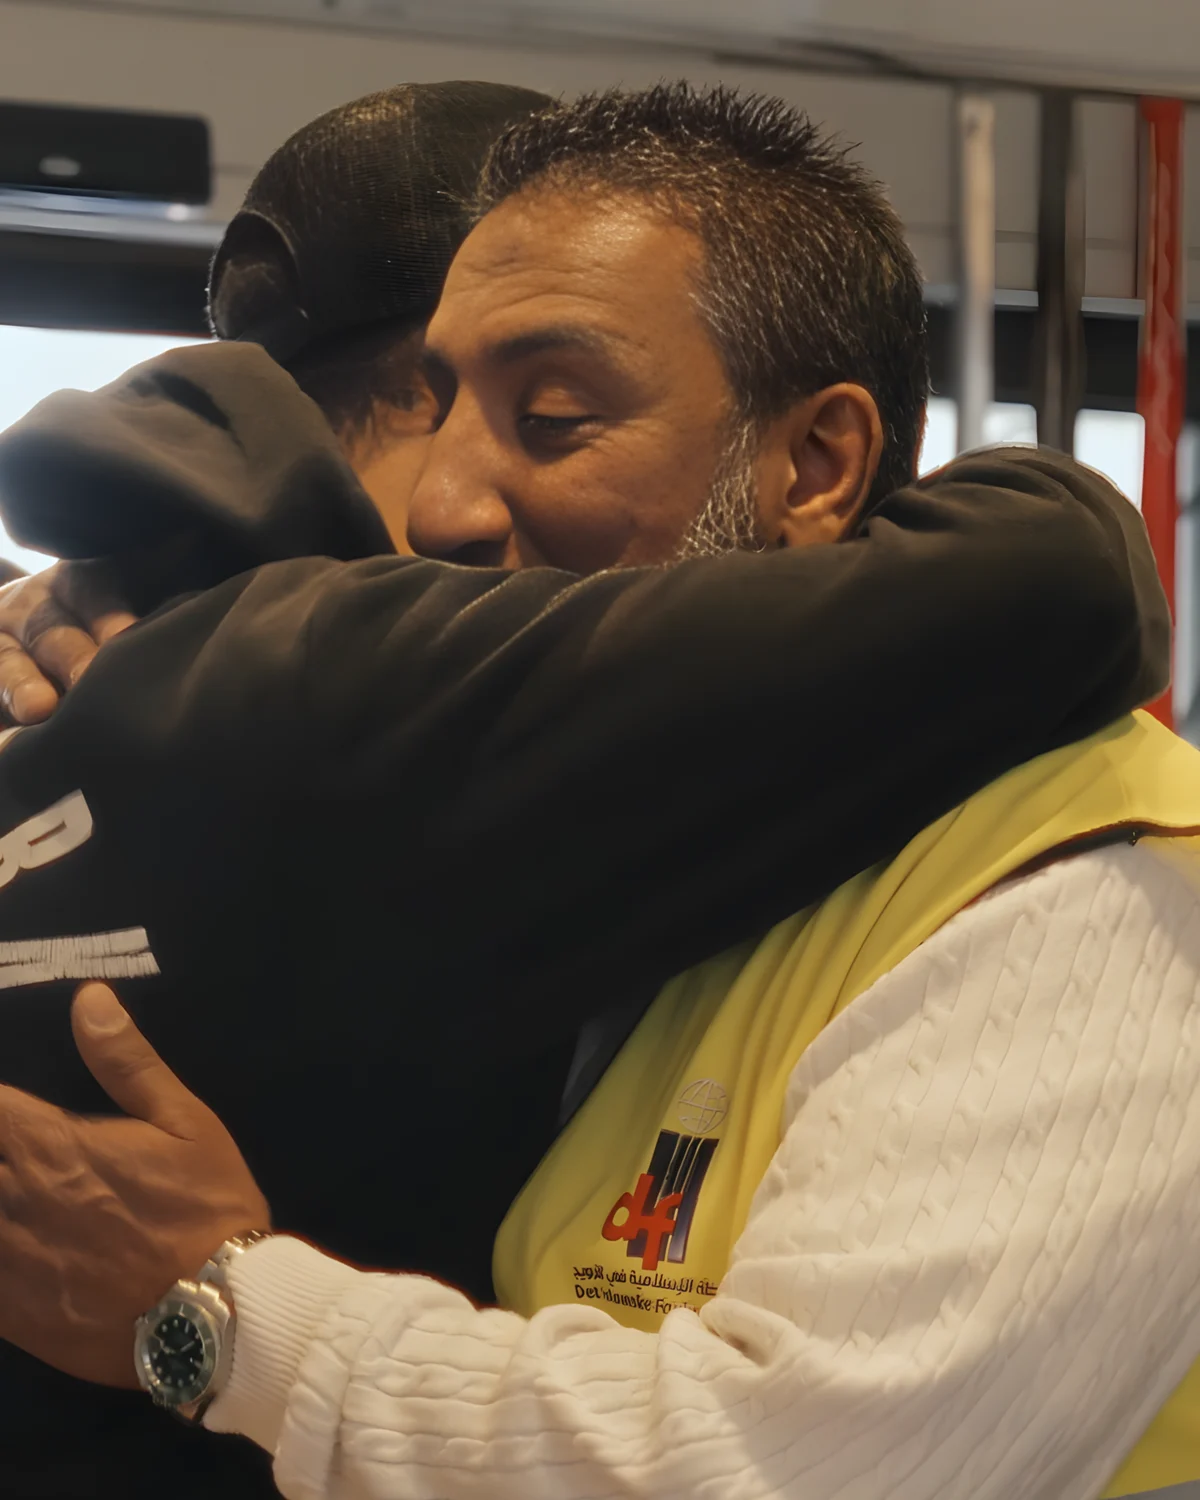
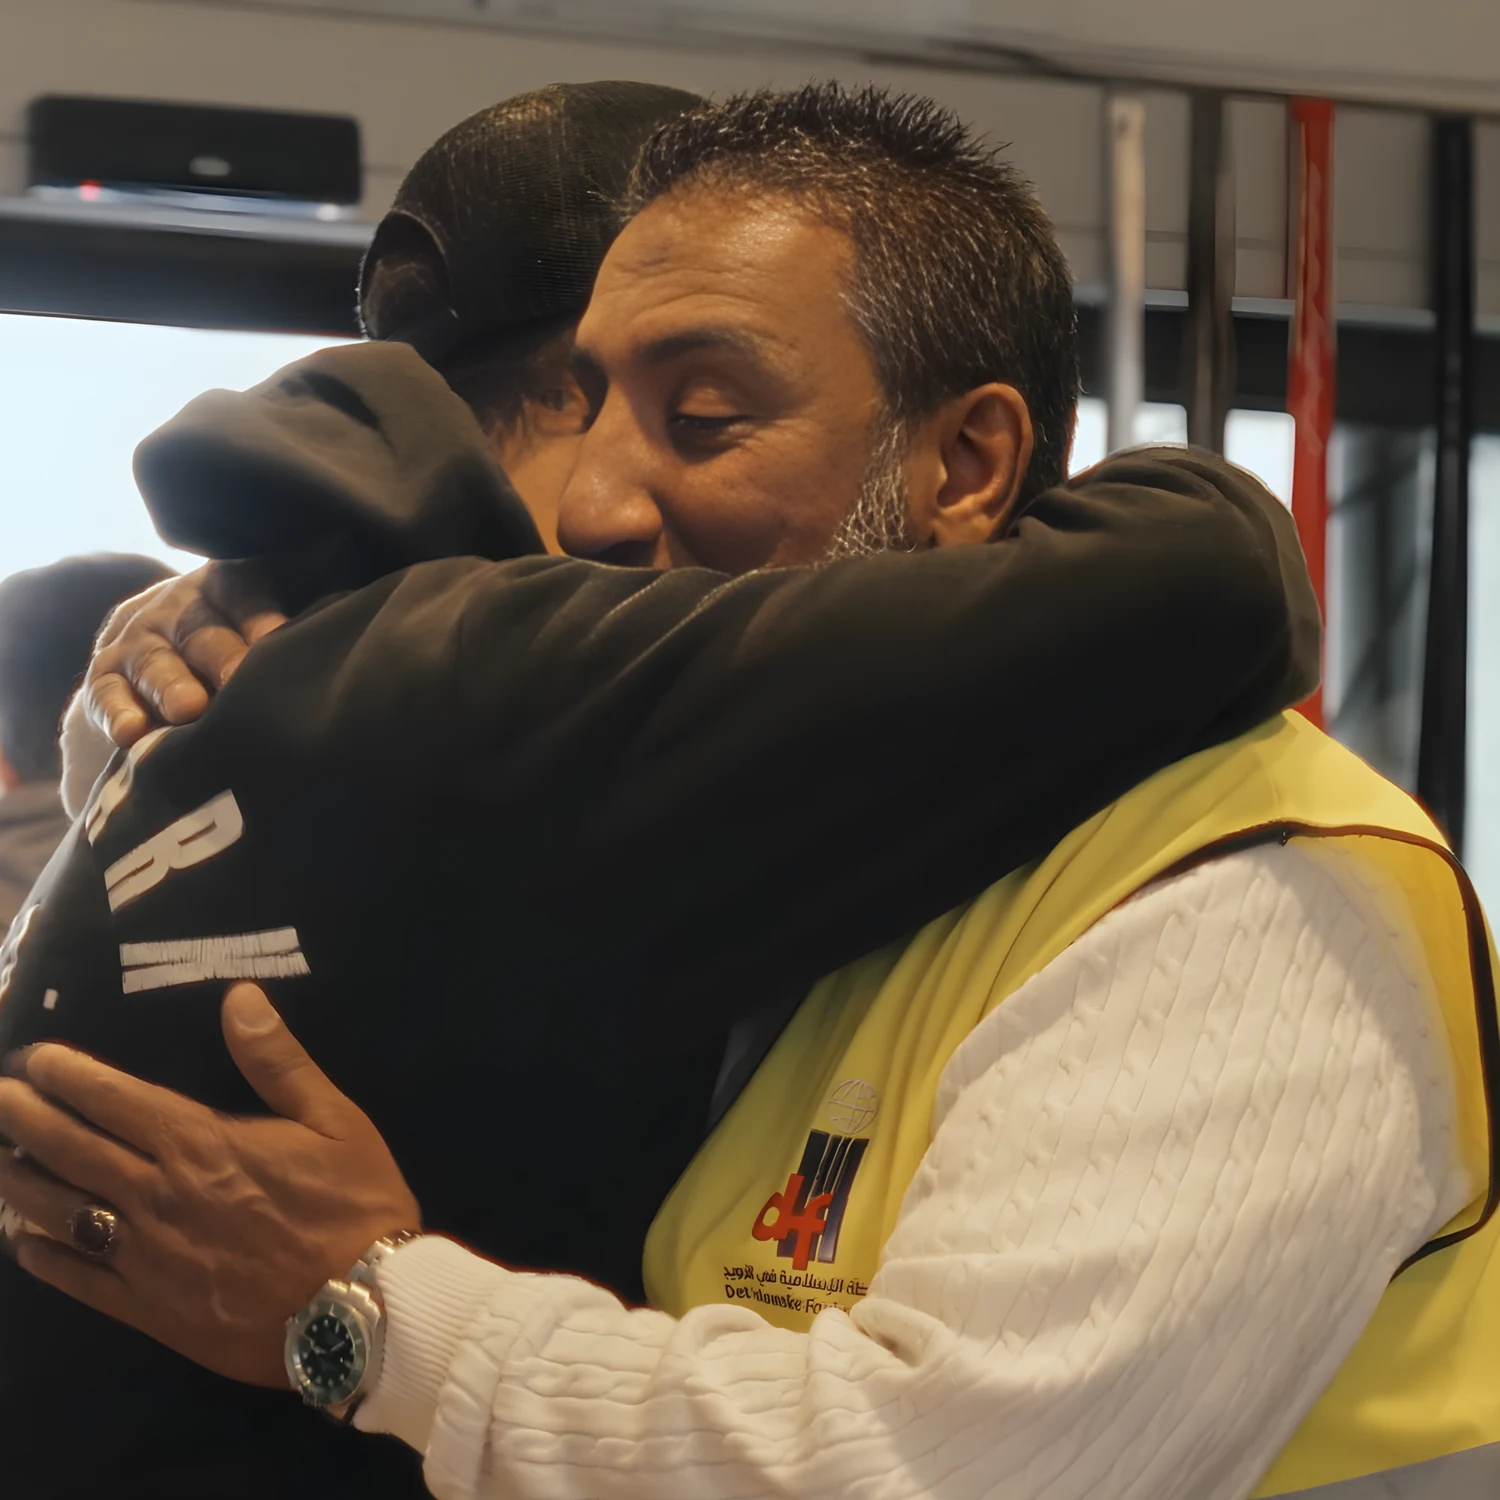
Members photo: square, so the phone frame stops cropping it to a sleeve
It shipped at 1200x1500 because the frames that wanted it were 4:5. This
chapter's frame is 4:5 only from md — on a phone it is 16/11, and a 0.8
source in a 1.45 box loses 45% of its height. The top of the head went and
what was left read as a black sleeve, which is the zoomed-in look.

Recut 1:1 from the client's own 5313x3125 original, around the same centre
his window was chosen at: the one ratio neither frame has to cut hard.
Both faces, the embrace and the Det Islamske Forbundet vest are back on a
phone. Desktop and /utmelding are both 4:5 and lose 20% of the width
instead, inside the margin his window already allowed for.

His subject choice is untouched; only the geometry changed.

diff --git a/components/impact-story.tsx b/components/impact-story.tsx
@@ -51,10 +51,18 @@ const CHAPTERS: {
   },
   {
     key: 'family',
-    // Client, Bildeplassering (2026-09-19) — his "Medlemskap" frame. Cut from
-    // a 5313x3125 at x=1450: that is the only window where the face, the
-    // embrace and the Det Islamske Forbundet vest all survive a 4:5. Further
-    // left loses the vest, further right cuts the arm.
+    // Client, Bildeplassering (2026-09-19) — his "Medlemskap" frame, cut from
+    // a 5313x3125 around x=2700: the only window where the face, the embrace
+    // and the Det Islamske Forbundet vest all survive. Further left loses the
+    // vest, further right cuts the arm.
+    //
+    // SQUARE, NOT 4:5 (2026-09-29). It shipped as 1200x1500 because the frames
+    // that wanted it were 4:5. This chapter's frame is 4:5 only from md — on a
+    // phone it is 16/11, and a 0.8 source in a 1.45 box loses 45% of its
+    // height: the top of the head went, and what was left read as a black
+    // sleeve. 1:1 is the one ratio neither frame has to cut hard. Desktop and
+    // /utmelding, both 4:5, lose 20% of the width instead, which is inside the
+    // margin his window was chosen with.
     //
     // family-together.webp is NOT deleted — gift-builds.tsx still renders it.
     photo: '/photos/members-embrace.webp',
